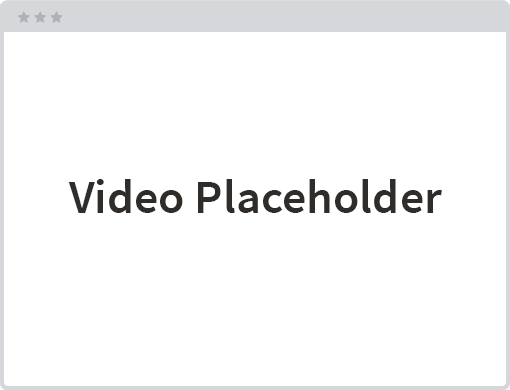
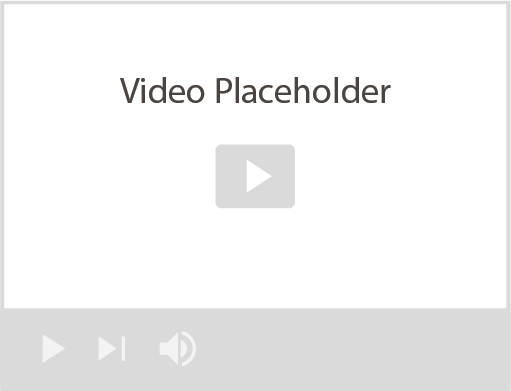
added section [appends #23]

diff --git a/src/Dashboard/_views/Dashboard.vue b/src/Dashboard/_views/Dashboard.vue
@@ -7,7 +7,7 @@
         <div class="fsa-section__bd">
           <div class="fsa-m-t--l">
             <div class="fsa-level@m fsa-level--justify-between">
-              <h1 class="fsa-m--none">Most Resent</h1>
+              <h1 class="fsa-m--none">Dashboard</h1>
             </div>
           </div>
         </div>
@@ -30,7 +30,10 @@
                       <a class="ds-jump__link" href="#main-content">Overview</a>
                     </li>
                     <li class="ds-jump__item">
-                      <a class="ds-jump__link" href="#general">General</a>
+                      <a class="ds-jump__link" href="#most-recent">Most Recent</a>
+                    </li>
+                    <li class="ds-jump__item">
+                      <a class="ds-jump__link" href="#popular-videos">Popular Videos</a>
                     </li>
                    
                   </ul>
@@ -48,146 +51,123 @@
 
                 <p
                   class="fsa-text--lead fsa-m-t--m"
-                >Core building blocks of the design system to ensure cohesive experiences across FPAC digital products.</p>
+                >Your Training resource for the <strong>FPAC Design System</strong>, industry standards, and general UX best practices.</p>
 
                 <!-- HAS components -->
 
-                <h2 id="general">General</h2>
+                <h2 id="most-recent">Most Recent</h2>
 
                 <div class="ds-subcat-list">
                   <ul class="ds-subcat-list__list">
                     <li class="ds-subcat-list__list-item ds-subcat-list__list-item--thirds">
-                      <a class="ds-subcat-list__link" href="/fsa-design-system/components/icons">
+                      <a class="ds-subcat-list__link" href="/training/components/icons">
                         <span class="ds-subcat-list__text">Icons</span>
 
                         <img
                           class="ds-subcat-list__img"
-                          src="/img/video-titles/video-placeholder.png"
+                          src="/img/video-titles/video-coming-soon.png"
                           alt
                         />
                       </a>
                     </li>
 
                     <li class="ds-subcat-list__list-item ds-subcat-list__list-item--thirds">
-                      <a class="ds-subcat-list__link" href="/fsa-design-system/components/icons">
-                        <span class="ds-subcat-list__text">Icons</span>
+                      <a class="ds-subcat-list__link" href="/training/components/icons">
+                        <span class="ds-subcat-list__text">Size and Spacing</span>
 
                         <img
                           class="ds-subcat-list__img"
-                          src="/img/video-titles/video-placeholder.png"
+                          src="/img/video-titles/video-coming-soon.png"
                           alt
                         />
                       </a>
                     </li>
 
                     <li class="ds-subcat-list__list-item ds-subcat-list__list-item--thirds">
-                      <a class="ds-subcat-list__link" href="/fsa-design-system/components/icons">
-                        <span class="ds-subcat-list__text">Icons</span>
-
-                        <img
-                          class="ds-subcat-list__img"
-                          src="/img/video-titles/video-placeholder.png"
-                          alt
-                        />
-                      </a>
-                    </li>
-
-                    <li class="ds-subcat-list__list-item ds-subcat-list__list-item--thirds">
-                      <a class="ds-subcat-list__link" href="/fsa-design-system/components/icons">
-                        <span class="ds-subcat-list__text">Icons</span>
-
-                        <img
-                          class="ds-subcat-list__img"
-                          src="/img/video-titles/video-placeholder.png"
-                          alt
-                        />
-                      </a>
-                    </li>
-
-                    <li class="ds-subcat-list__list-item ds-subcat-list__list-item--thirds">
-                      <a class="ds-subcat-list__link" href="/fsa-design-system/components/icons">
-                        <span class="ds-subcat-list__text">Icons</span>
-
-                        <img
-                          class="ds-subcat-list__img"
-                          src="/img/video-titles/video-placeholder.png"
-                          alt
-                        />
-                      </a>
-                    </li>
-                  </ul>
-                </div>
-
-                <h2 id="form-elements">Form Elements</h2>
-                <div class="ds-subcat-list">
-                  <ul class="ds-subcat-list__list">
-                    <li class="ds-subcat-list__list-item ds-subcat-list__list-item--thirds">
-                      <a class="ds-subcat-list__link" href="/fsa-design-system/components/buttons">
-                        <span class="ds-subcat-list__text">Buttons</span>
-
-                        <img
-                          class="ds-subcat-list__img"
-                          src="/img/video-titles/video-placeholder.png"
-                          alt
-                        />
-                      </a>
-                    </li>
-
-                    <li class="ds-subcat-list__list-item ds-subcat-list__list-item--thirds">
-                      <a class="ds-subcat-list__link" href="/fsa-design-system/components/button-group">
-                        <span class="ds-subcat-list__text">Button Group</span>
-
-                        <img
-                          class="ds-subcat-list__img"
-                          src="/img/video-titles/video-placeholder.png"
-                          alt
-                        />
-                      </a>
-                    </li>
-
-                    <li class="ds-subcat-list__list-item ds-subcat-list__list-item--thirds">
-                      <a class="ds-subcat-list__link" href="/fsa-design-system/components/checkbox">
-                        <span class="ds-subcat-list__text">Checkbox</span>
-
-                        <img
-                          class="ds-subcat-list__img"
-                          src="/img/video-titles/video-placeholder.png"
-                          alt
-                        />
-                      </a>
-                    </li>
-
-                    <li class="ds-subcat-list__list-item ds-subcat-list__list-item--thirds">
-                      <a class="ds-subcat-list__link" href="/fsa-design-system/components/date-picker">
-                        <span class="ds-subcat-list__text">Date Picker</span>
-
-                        <img
-                          class="ds-subcat-list__img"
-                          src="/img/video-titles/video-placeholder.png"
-                          alt
-                        />
-                      </a>
-                    </li>
-
-                    <li class="ds-subcat-list__list-item ds-subcat-list__list-item--thirds">
-                      <a class="ds-subcat-list__link" href="/fsa-design-system/components/form-fields">
+                      <a class="ds-subcat-list__link" href="/training/components/icons">
                         <span class="ds-subcat-list__text">Form Fields</span>
 
                         <img
                           class="ds-subcat-list__img"
-                          src="/img/video-titles/video-placeholder.png"
+                          src="/img/video-titles/video-coming-soon.png"
+                          alt
+                        />
+                      </a>
+                    </li>
+
+                  </ul>
+                </div>
+
+                <h2 id="popular-videos">Popular Videos</h2>
+                <div class="ds-subcat-list">
+                  <ul class="ds-subcat-list__list">
+                    <li class="ds-subcat-list__list-item ds-subcat-list__list-item--thirds">
+                      <a class="ds-subcat-list__link" href="/training/components/buttons">
+                        <span class="ds-subcat-list__text">Buttons</span>
+
+                        <img
+                          class="ds-subcat-list__img"
+                          src="/img/video-titles/video-coming-soon.png"
                           alt
                         />
                       </a>
                     </li>
 
                     <li class="ds-subcat-list__list-item ds-subcat-list__list-item--thirds">
-                      <a class="ds-subcat-list__link" href="/fsa-design-system/components/radio">
-                        <span class="ds-subcat-list__text">Radio</span>
+                      <a class="ds-subcat-list__link" href="/training/components/button-group">
+                        <span class="ds-subcat-list__text">Date Picker</span>
 
                         <img
                           class="ds-subcat-list__img"
-                          src="/img/video-titles/video-placeholder.png"
+                          src="/img/video-titles/video-coming-soon.png"
+                          alt
+                        />
+                      </a>
+                    </li>
+
+                    <li class="ds-subcat-list__list-item ds-subcat-list__list-item--thirds">
+                      <a class="ds-subcat-list__link" href="/training/components/checkbox">
+                        <span class="ds-subcat-list__text">Stepped Tabs</span>
+
+                        <img
+                          class="ds-subcat-list__img"
+                          src="/img/video-titles/video-coming-soon.png"
+                          alt
+                        />
+                      </a>
+                    </li>
+
+                    <li class="ds-subcat-list__list-item ds-subcat-list__list-item--thirds">
+                      <a class="ds-subcat-list__link" href="/training/components/date-picker">
+                        <span class="ds-subcat-list__text">Stepped Control</span>
+
+                        <img
+                          class="ds-subcat-list__img"
+                          src="/img/video-titles/video-coming-soon.png"
+                          alt
+                        />
+                      </a>
+                    </li>
+
+                    <li class="ds-subcat-list__list-item ds-subcat-list__list-item--thirds">
+                      <a class="ds-subcat-list__link" href="/training/components/form-fields">
+                        <span class="ds-subcat-list__text">Form Fields</span>
+
+                        <img
+                          class="ds-subcat-list__img"
+                          src="/img/video-titles/video-coming-soon.png"
+                          alt
+                        />
+                      </a>
+                    </li>
+
+                    <li class="ds-subcat-list__list-item ds-subcat-list__list-item--thirds">
+                      <a class="ds-subcat-list__link" href="/training/components/radio">
+                        <span class="ds-subcat-list__text">Action Bar &amp; Table</span>
+
+                        <img
+                          class="ds-subcat-list__img"
+                          src="/img/video-titles/video-coming-soon.png"
                           alt
                         />
                       </a>

diff --git a/src/Visual-Style/_views/Visual-Style.vue b/src/Visual-Style/_views/Visual-Style.vue
@@ -62,7 +62,7 @@
 
                         <img
                           class="ds-subcat-list__img"
-                          src="/img/video-titles/video-placeholder.png"
+                          src="/img/video-titles/video-coming-soon.png"
                           alt
                         />
                       </a>
@@ -74,7 +74,7 @@
 
                         <img
                           class="ds-subcat-list__img"
-                          src="/img/video-titles/video-placeholder.png"
+                          src="/img/video-titles/video-coming-soon.png"
                           alt
                         />
                       </a>
@@ -86,7 +86,7 @@
 
                         <img
                           class="ds-subcat-list__img"
-                          src="/img/video-titles/video-placeholder.png"
+                          src="/img/video-titles/video-coming-soon.png"
                           alt
                         />
                       </a>
@@ -98,7 +98,7 @@
 
                         <img
                           class="ds-subcat-list__img"
-                          src="/img/video-titles/video-placeholder.png"
+                          src="/img/video-titles/video-coming-soon.png"
                           alt
                         />
                       </a>
@@ -110,7 +110,7 @@
 
                         <img
                           class="ds-subcat-list__img"
-                          src="/img/video-titles/video-placeholder.png"
+                          src="/img/video-titles/video-coming-soon.png"
                           alt
                         />
                       </a>
@@ -127,7 +127,7 @@
 
                         <img
                           class="ds-subcat-list__img"
-                          src="/img/video-titles/video-placeholder.png"
+                          src="/img/video-titles/video-coming-soon.png"
                           alt
                         />
                       </a>
@@ -139,7 +139,7 @@
 
                         <img
                           class="ds-subcat-list__img"
-                          src="/img/video-titles/video-placeholder.png"
+                          src="/img/video-titles/video-coming-soon.png"
                           alt
                         />
                       </a>
@@ -151,7 +151,7 @@
 
                         <img
                           class="ds-subcat-list__img"
-                          src="/img/video-titles/video-placeholder.png"
+                          src="/img/video-titles/video-coming-soon.png"
                           alt
                         />
                       </a>
@@ -163,7 +163,7 @@
 
                         <img
                           class="ds-subcat-list__img"
-                          src="/img/video-titles/video-placeholder.png"
+                          src="/img/video-titles/video-coming-soon.png"
                           alt
                         />
                       </a>
@@ -175,7 +175,7 @@
 
                         <img
                           class="ds-subcat-list__img"
-                          src="/img/video-titles/video-placeholder.png"
+                          src="/img/video-titles/video-coming-soon.png"
                           alt
                         />
                       </a>
@@ -187,7 +187,7 @@
 
                         <img
                           class="ds-subcat-list__img"
-                          src="/img/video-titles/video-placeholder.png"
+                          src="/img/video-titles/video-coming-soon.png"
                           alt
                         />
                       </a>

diff --git a/src/_components/footer/footer-footer.vue b/src/_components/footer/footer-footer.vue
@@ -16,9 +16,6 @@
                 <li class="fsa-footer__list-item">
                   <a href="" @click.prevent="goto('https://www.figma.com/community/file/994660481391659106','_blank')">Figma Design System</a>
                 </li>
-                <li class="fsa-footer__list-item">
-                  <a href="" @click.prevent="goto('https://www.figma.com/community/file/994660481391659106','_blank')">Fake link</a>
-                </li>
               </ul>
             </div>
             

diff --git a/src/_router.js b/src/_router.js
@@ -1,10 +1,12 @@
 import { createRouter, createWebHistory } from 'vue-router';
 
 import { dashboardRoutes } from '@/Dashboard/_routes/dashboard.routes.js';
+import { visualStyleRoutes } from '@/Visual-Style/_routes/visual-style.routes.js';
 
 
 const routes = [
   ...dashboardRoutes,
+  ...visualStyleRoutes,
   { 
     path: '/:pathMatch(.*)*',
     name: 'not-found',

diff --git a/src/Visual-Style/_routes/visual-style.routes.js b/src/Visual-Style/_routes/visual-style.routes.js
@@ -1,0 +1,7 @@
+
+export const visualStyleRoutes = [
+  { 
+    path: '/visual-style',
+    component: () => import('@/Visual-Style/_views/Visual-Style.vue')
+  },
+]
